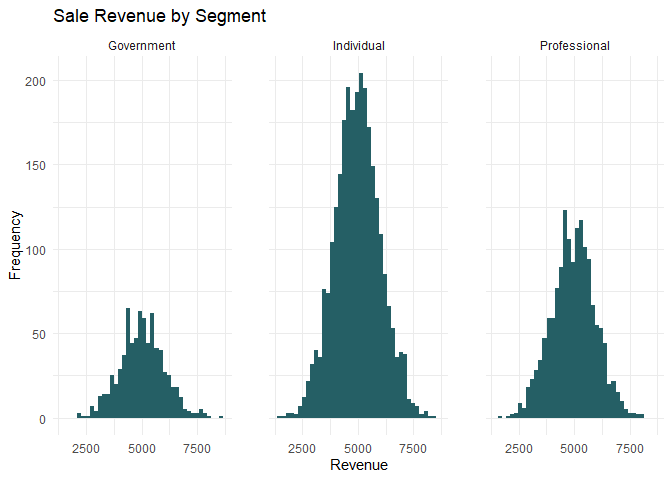
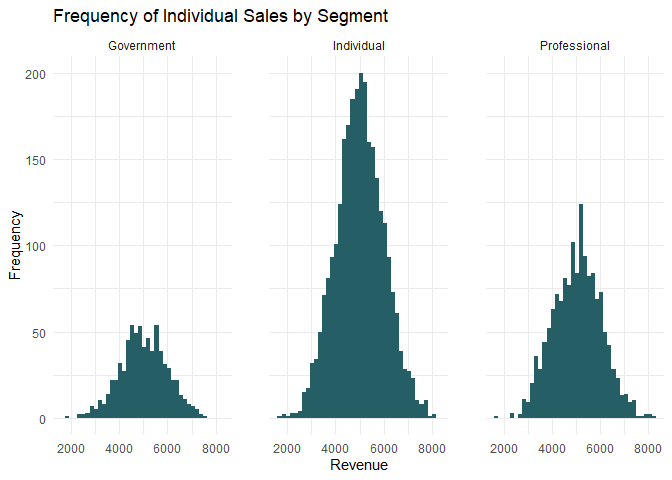
Add files via upload

diff --git a/MakeLookupData.md b/MakeLookupData.md
@@ -111,7 +111,7 @@ ggplot(Sales) +
   labs(
     x = "Revenue",
     y = "Frequency",
-    title = "Sale Revenue by Segment"
+    title = "Frequency of Individual Sales by Segment"
   ) +
   theme_minimal() +
   theme(panel.spacing = unit(1, "cm")) +
@@ -119,3 +119,22 @@ ggplot(Sales) +
 ```
 
 ![](MakeLookupData_files/figure-gfm/unnamed-chunk-3-1.png)<!-- -->
+
+What department has the highest payroll?
+
+``` r
+Employee %>% 
+    group_by(Dept) %>% 
+    summarise(SalaryTtl = sum(Salary)) %>% 
+    arrange(SalaryTtl) %>% 
+  ggplot(aes(x = Dept, y = SalaryTtl)) +
+  geom_bar(stat = "identity",fill = "#255F65") +
+    labs(
+    x = "Department",
+    y = "Revenue",
+    title = "Payroll by Department"
+  ) +
+  theme_classic()
+```
+
+![](MakeLookupData_files/figure-gfm/unnamed-chunk-4-1.png)<!-- -->
